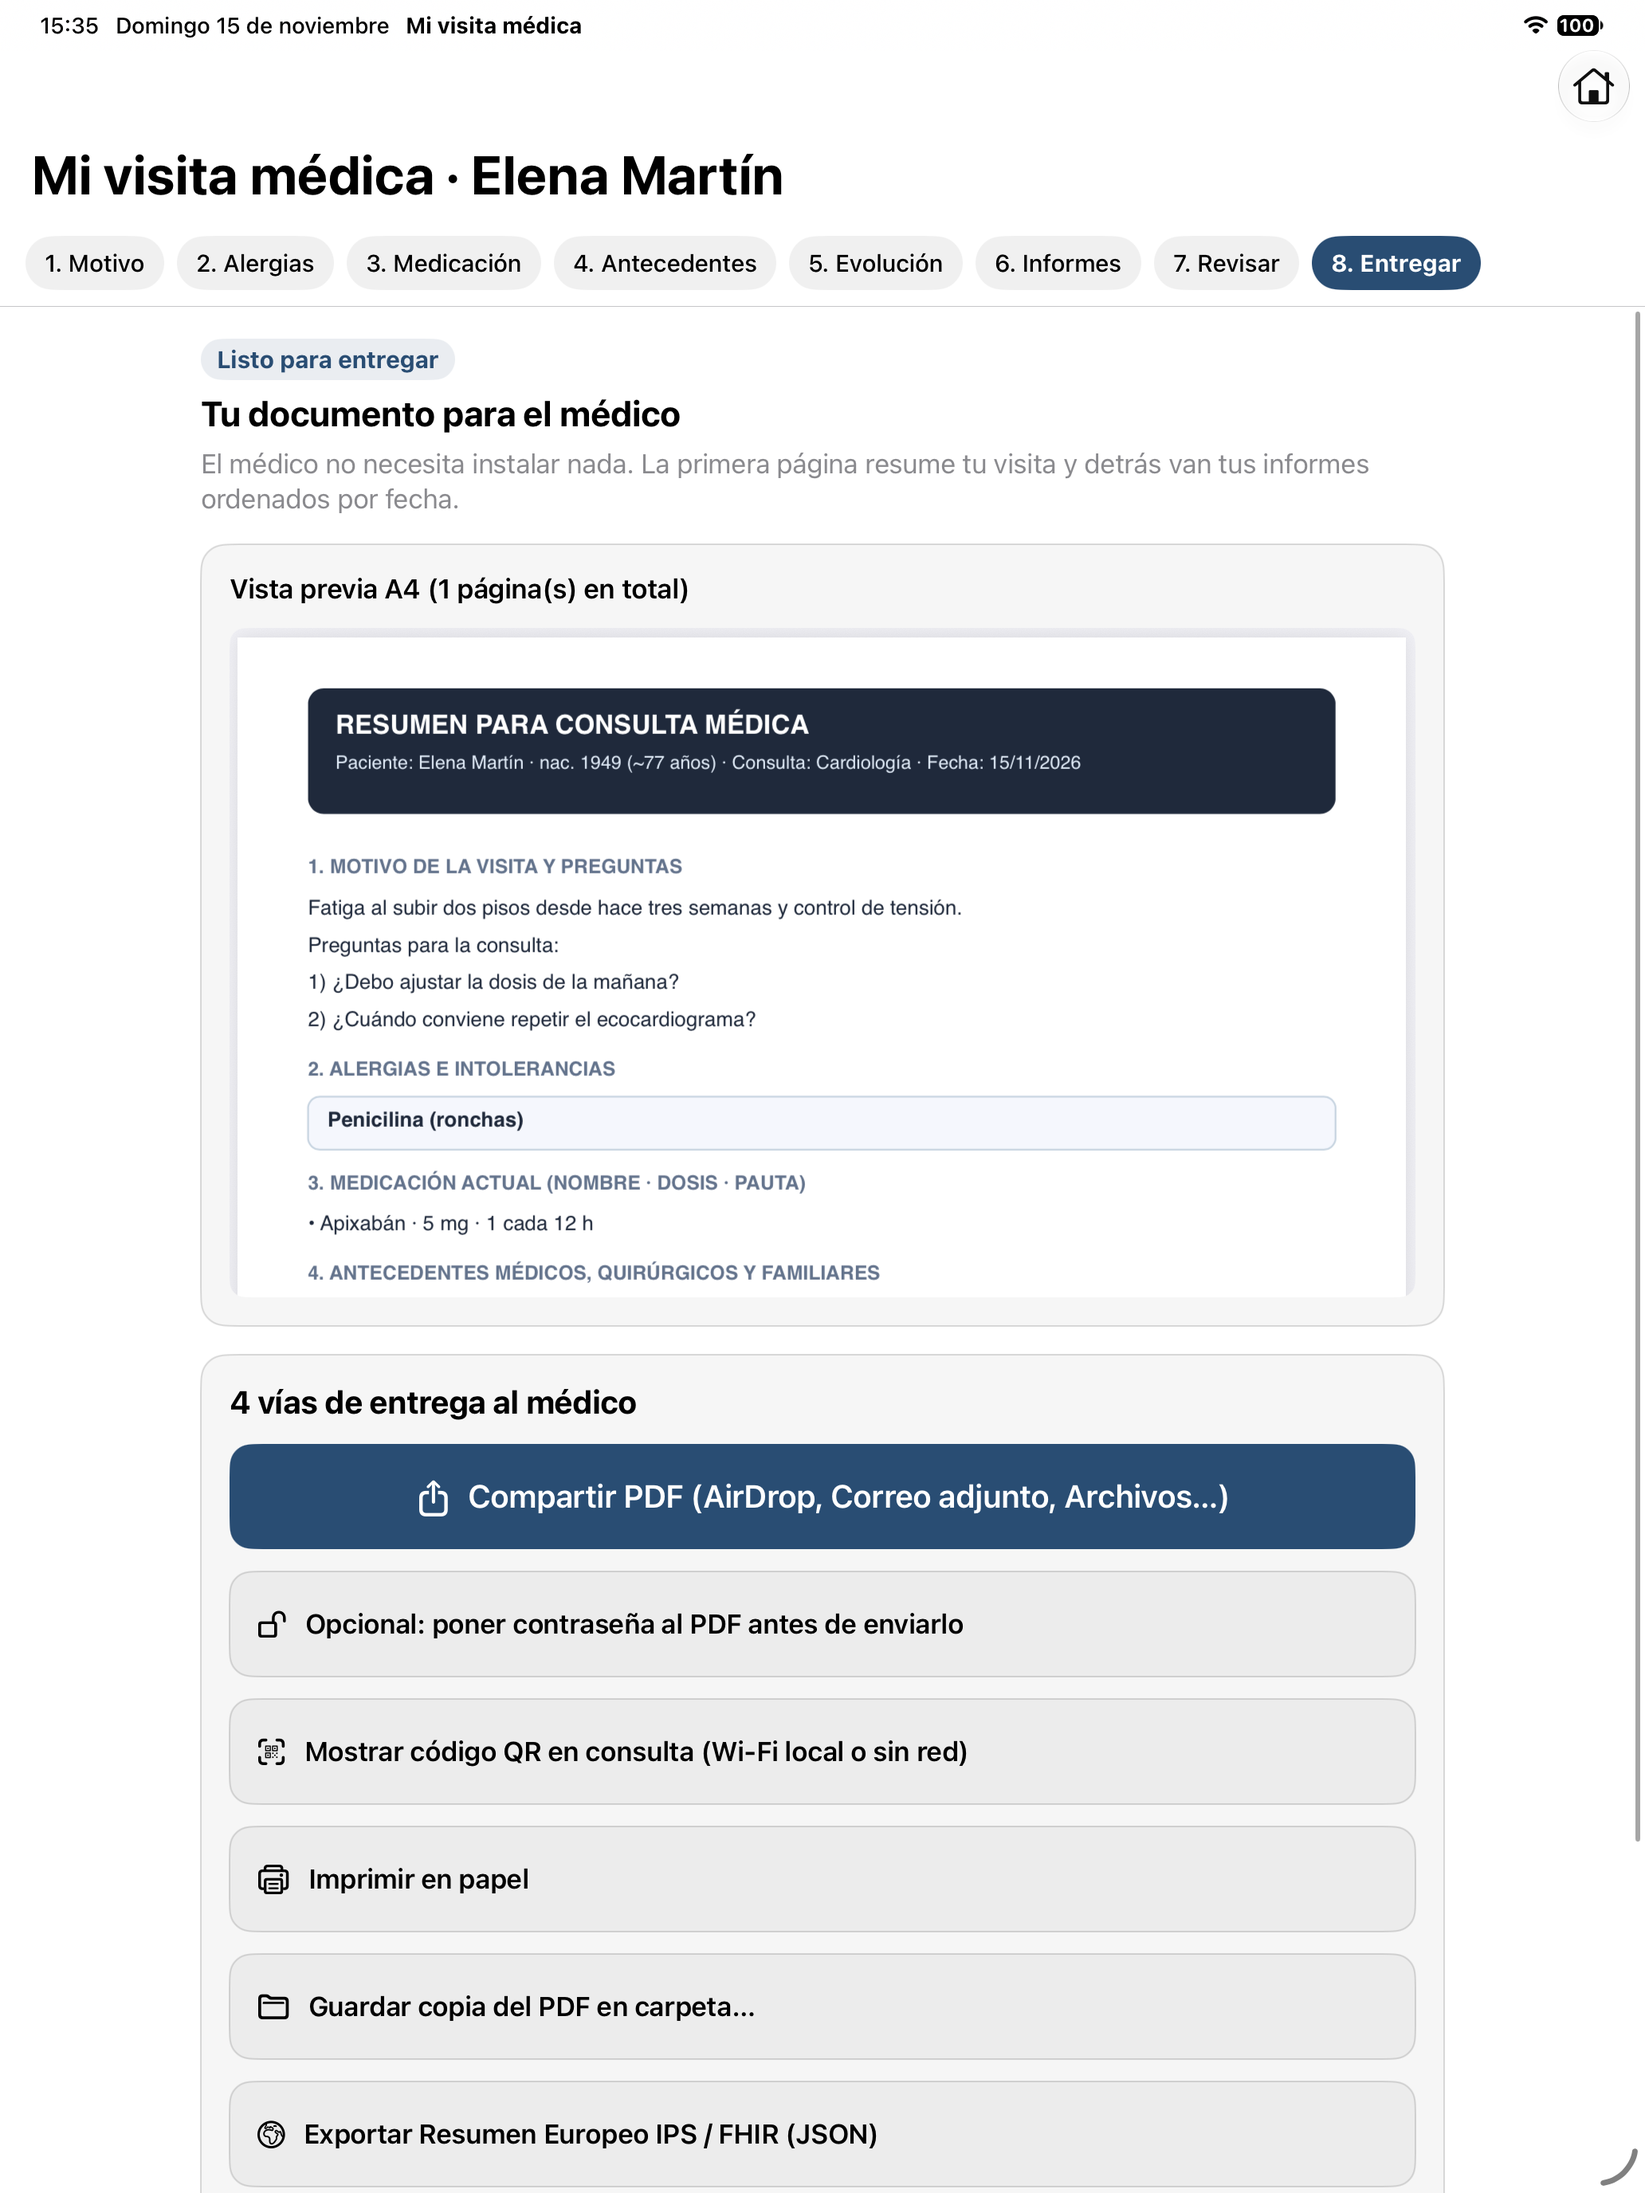
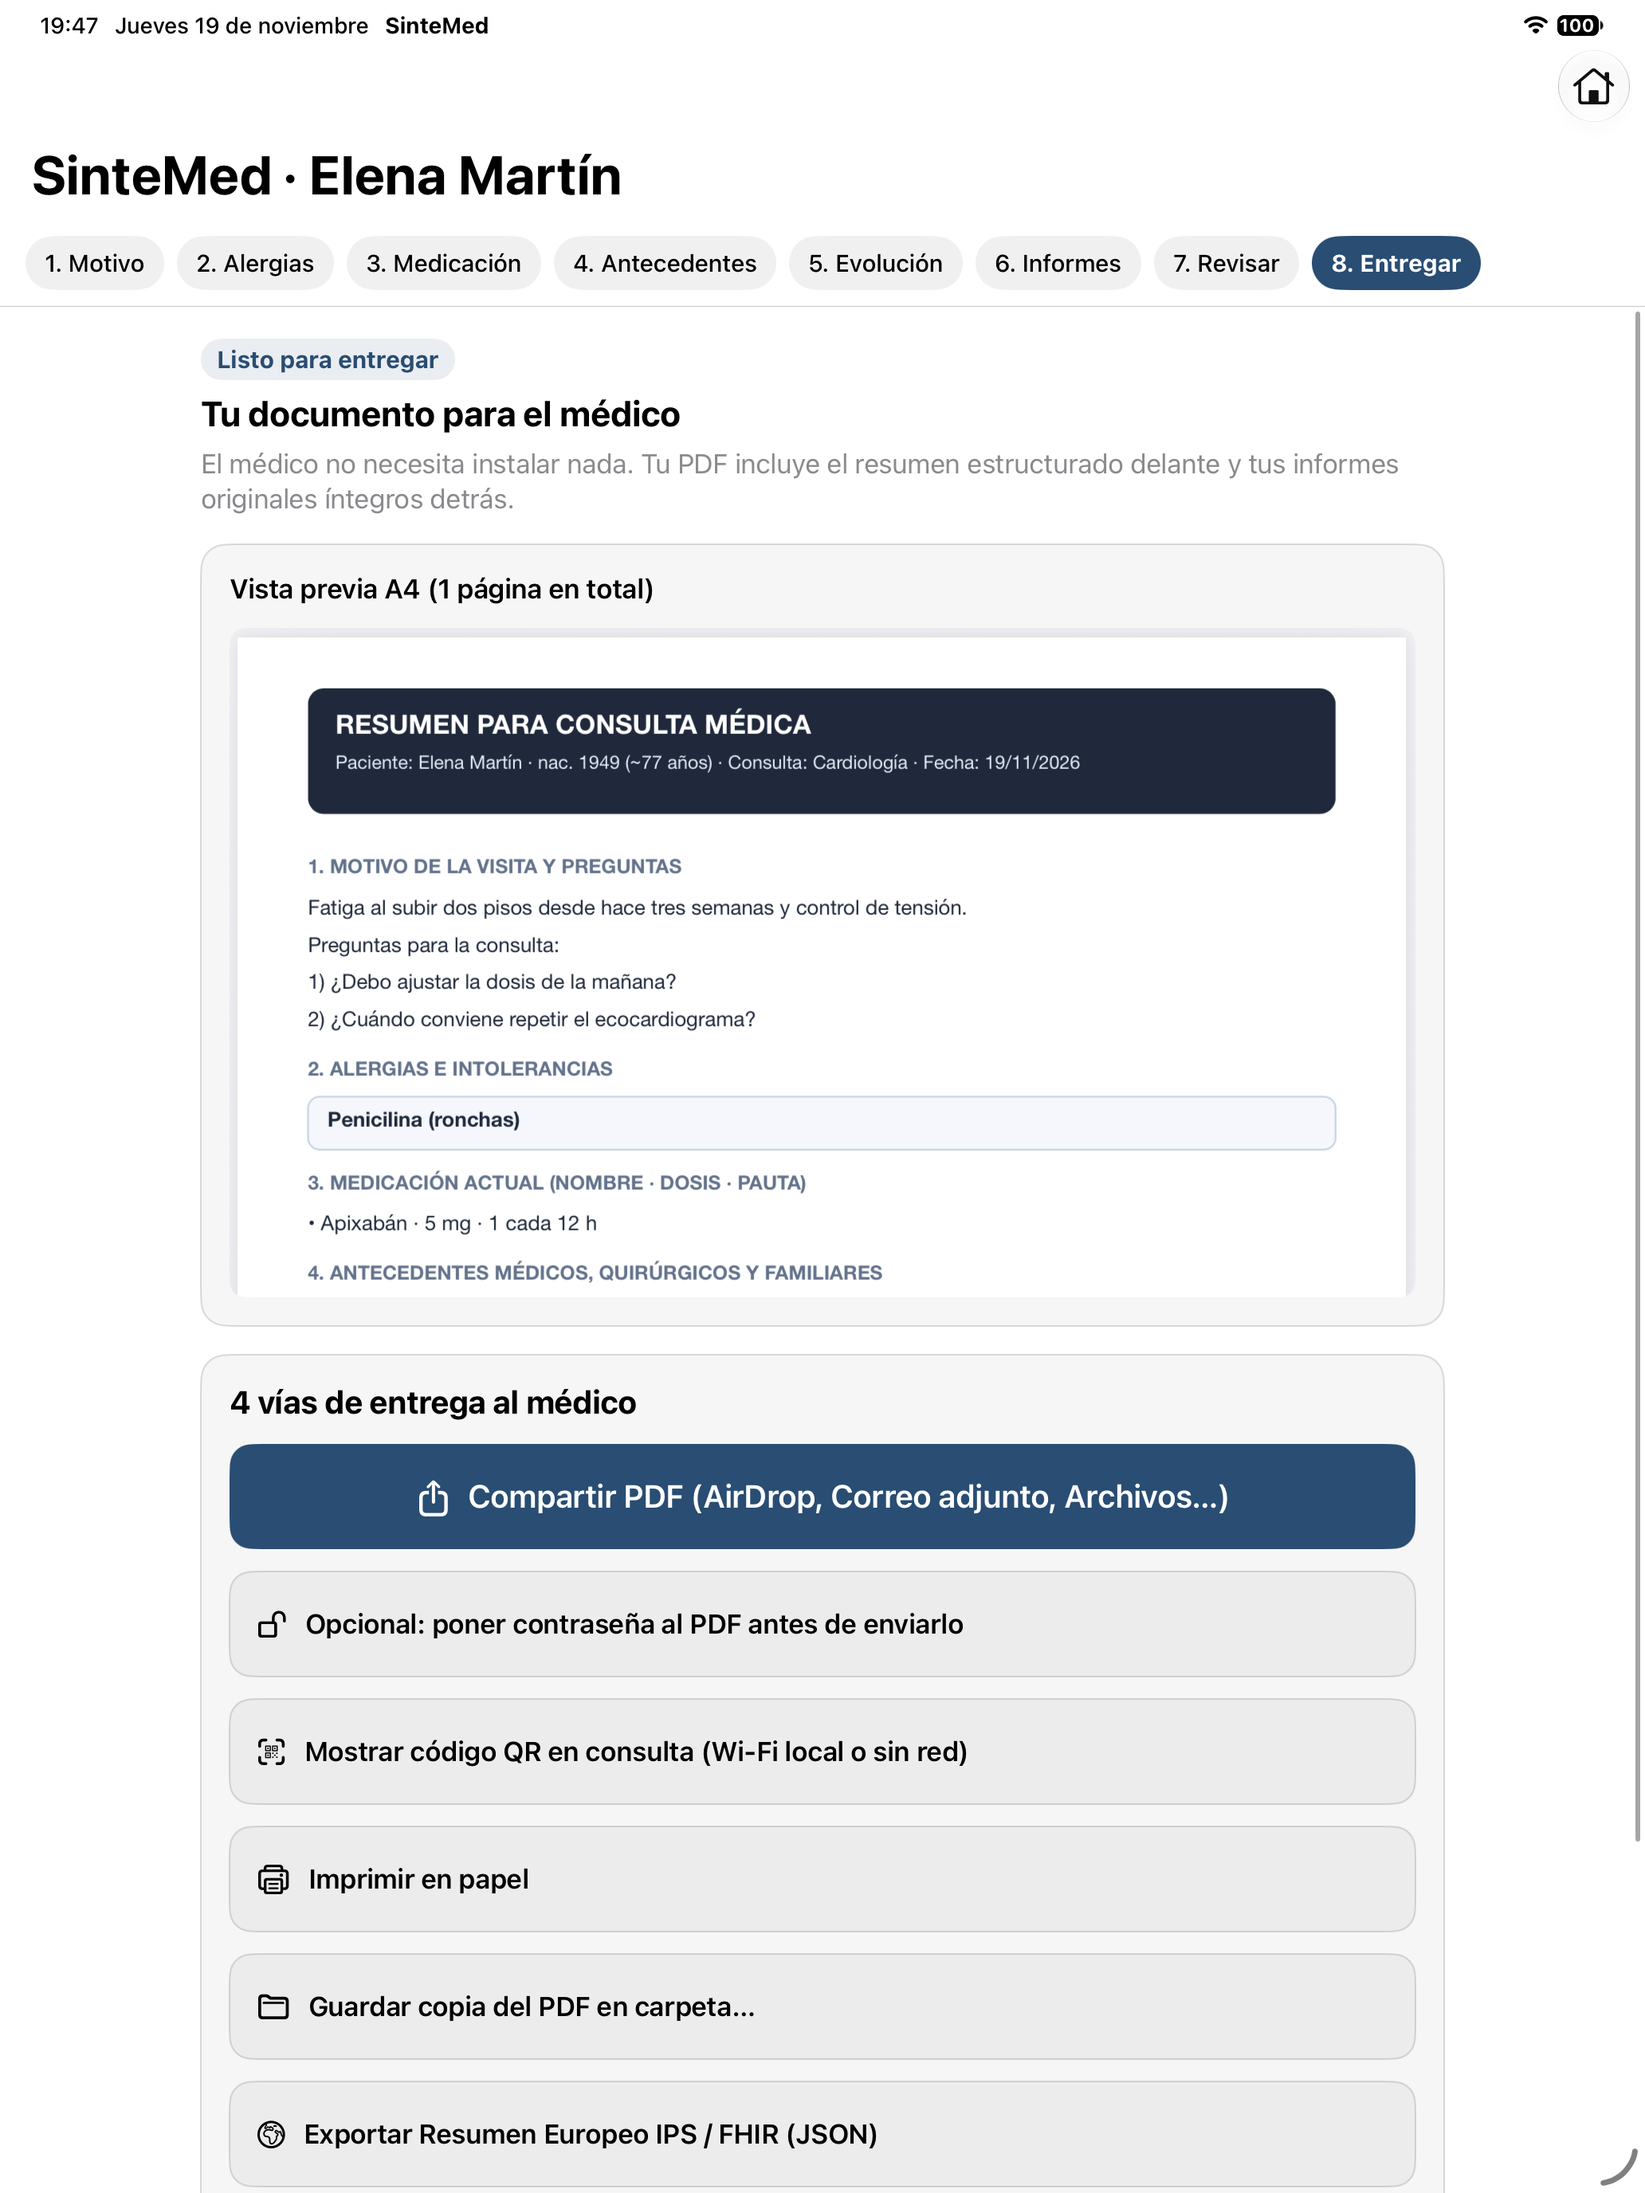
feat(web): update SinteMed 1.0 real screenshots, meta tags, and privacy policy

diff --git a/privacy.html b/privacy.html
@@ -50,7 +50,7 @@
     <ul>
       <li><strong>SinteMed</strong> no recopila, no transmite, no almacena en servidores externos ni comparte con terceros ningún dato personal, identificativo, médico ni analítico de uso (<code>NSPrivacyCollectedDataTypes = []</code>, <code>NSPrivacyTracking = false</code>).</li>
       <li>Toda la información introducida por el usuario y los informes PDF o imágenes adjuntos permanecen cifrados exclusivamente dentro del propio dispositivo (iPhone, iPad o Mac) mediante <code>AES-256-GCM</code> con llave custodiada en el Llavero local de Apple (<code>ThisDeviceOnly</code>).</li>
-      <li>El reconocimiento óptico de texto (OCR), la extracción literal de conclusiones y el montaje documental funcionan íntegramente en el procesador local del dispositivo, sin enviar documentos ni textos a modelos en la nube.</li>
+      <li>El reconocimiento óptico de texto (OCR), la extracción literal de conclusiones, el pulido opcional con inteligencia artificial local (cuando el dispositivo lo admite) y el montaje documental funcionan íntegramente en el procesador local del dispositivo, sin enviar documentos ni textos a modelos en la nube.</li>
       <li>Las compras integradas se gestionan exclusivamente a través de <strong>Apple StoreKit 2</strong> sin crear cuentas propias ni almacenar datos de pago por parte del desarrollador.</li>
       <li>Los datos solo salen del dispositivo cuando el propio usuario decide voluntariamente imprimirlos, compartirlos mediante la hoja del sistema o mostrarlos presencialmente mediante código QR en la red local Wi‑Fi.</li>
     </ul>
@@ -59,7 +59,7 @@
     <ul>
       <li><strong>SinteMed</strong> collects, transmits, and stores <strong>zero</strong> personal, health, or usage data on any external server.</li>
       <li>All profiles, visit records, and attached PDFs live exclusively inside an <code>AES-256-GCM</code> encrypted vault on the user’s own iPhone, iPad, or Mac, protected by a hardware-bound local Apple Keychain key.</li>
-      <li>OCR and verbatim conclusion extraction execute 100% locally on-device with zero cloud API calls, and In-App Purchases are handled natively via Apple <strong>StoreKit 2</strong>.</li>
+      <li>OCR, verbatim conclusion extraction, optional on-device AI sentence polishing (when supported by hardware), and PDF assembly execute 100% locally on-device with zero cloud API calls, and In-App Purchases are handled natively via Apple <strong>StoreKit 2</strong>.</li>
       <li>Non-medical device scope (EU MDR 2017/745 Art. 2(1) / MDCG 2019-11 § 3.2): SinteMed is a personal document-organization tool and does not diagnose, interpret lab values, calculate clinical risk, or provide medical advice.</li>
     </ul>
 

diff --git a/index.html b/index.html
@@ -3,11 +3,11 @@
 <head>
   <meta charset="UTF-8" />
   <meta name="viewport" content="width=device-width, initial-scale=1.0" />
-  <title>SinteMed — Tus informes médicos claros. Toda la consulta para hablar con tu médico.</title>
-  <meta name="description" content="Prepara tus consultas médicas con calma en iPhone, iPad y Mac: escanea informes, sintetiza lo importante con IA 100 % local y entrégalo en una hoja A4, PDF o QR." />
+  <title>SinteMed — Tus informes médicos ordenados. Toda la consulta para hablar con tu médico.</title>
+  <meta name="description" content="Prepara tus consultas médicas con calma en iPhone, iPad y Mac: organiza medicación, alergias, dudas e informes en un resumen A4 claro con tus originales detrás. 100 % privado en tu dispositivo." />
   <meta property="og:type" content="website" />
-  <meta property="og:title" content="SinteMed — Clear Medical Summaries. 100% On-Device." />
-  <meta property="og:description" content="Prepara tus informes médicos con IA 100 % local en iPhone, iPad y Mac y dedica toda la consulta a hablar con tu médico." />
+  <meta property="og:title" content="SinteMed — Organized Medical Visit Summaries. 100% On-Device." />
+  <meta property="og:description" content="Prepara tu consulta médica con calma en iPhone, iPad y Mac (10 idiomas): conclusiones literales, resumen A4 e informes originales detrás, 100 % privado en tu dispositivo." />
   <meta property="og:image" content="media/story_04.jpg" />
   <meta name="twitter:card" content="summary_large_image" />
   <link rel="icon" type="image/png" href="media/icon.png" />
